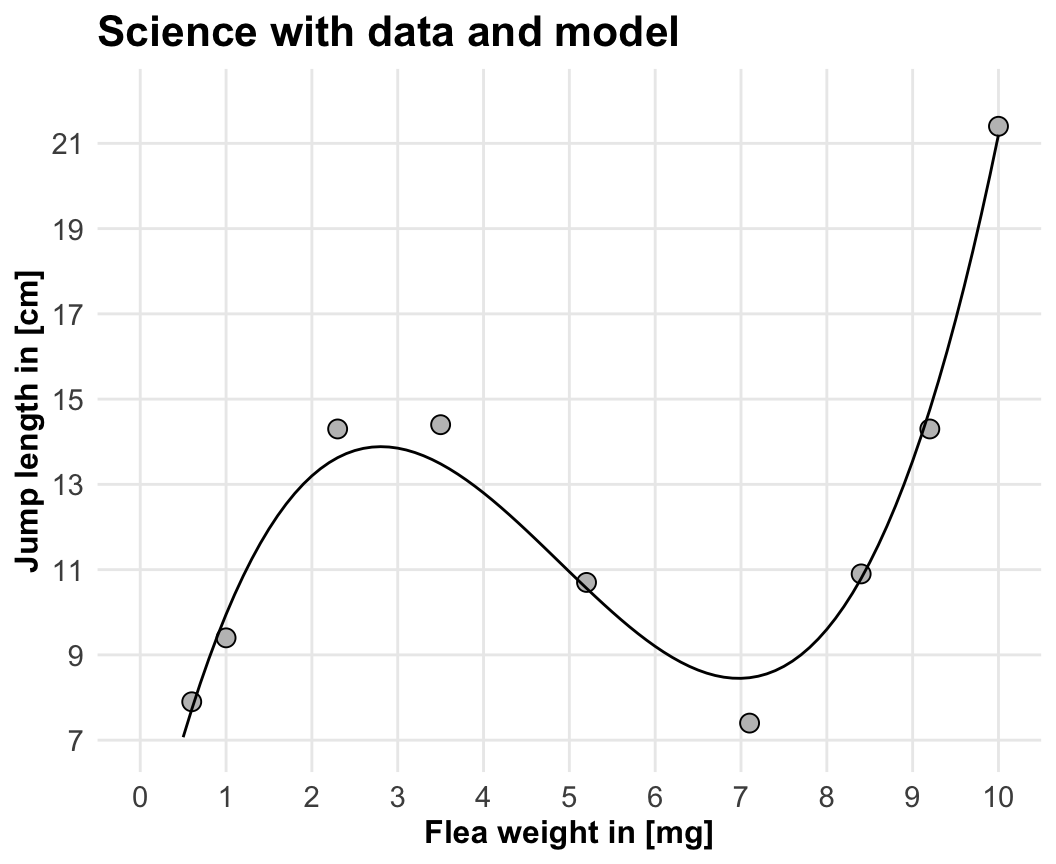
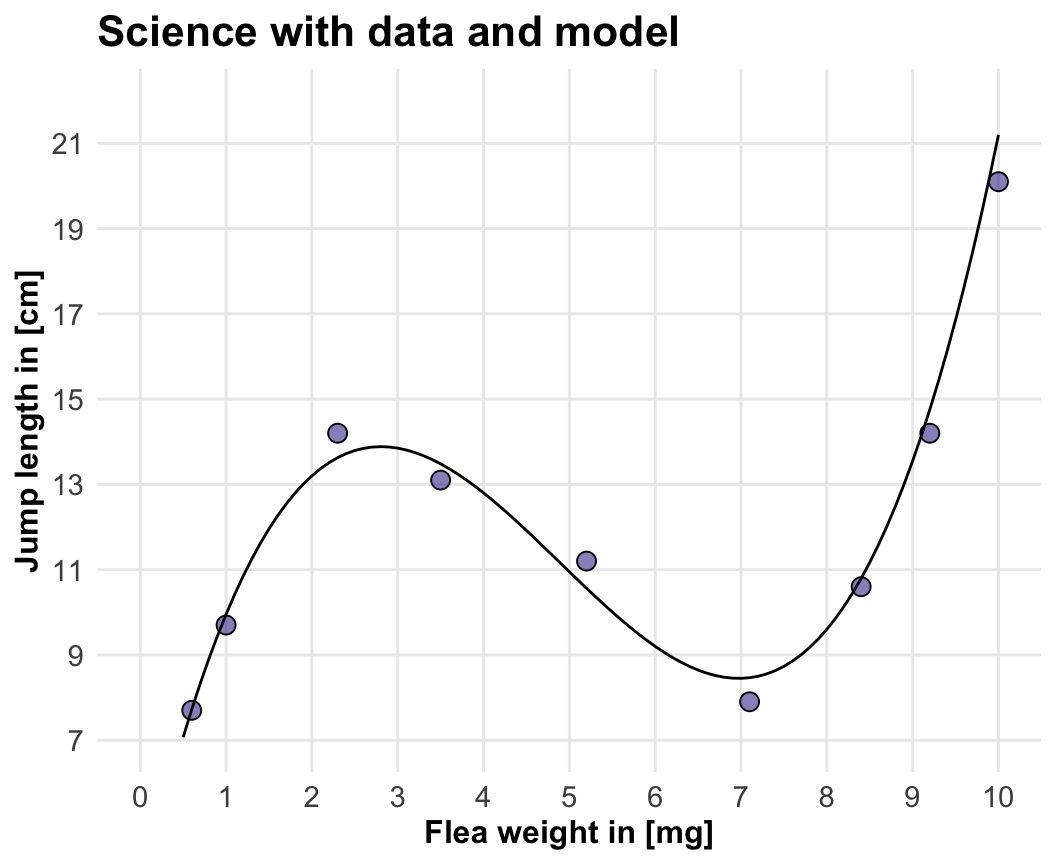
added

diff --git a/docs/chapter-02-what-is-data.html b/docs/chapter-02-what-is-data.html
@@ -238,9 +238,20 @@ window.Quarto = {
  <span class="menu-text"><span class="chapter-number">3</span>&nbsp; <span class="chapter-title">What is a model?</span></span></a>
   </div>
 </li>
+      </ul>
+  </li>
+        <li class="sidebar-item sidebar-item-section">
+      <div class="sidebar-item-container"> 
+            <a href="./chapter-10-preface.html" class="sidebar-item-text sidebar-link">
+ <span class="menu-text">Data</span></a>
+          <a class="sidebar-item-toggle text-start" data-bs-toggle="collapse" data-bs-target="#quarto-sidebar-section-2" role="navigation" aria-expanded="true" aria-label="Toggle section">
+            <i class="bi bi-chevron-right ms-2"></i>
+          </a> 
+      </div>
+      <ul id="quarto-sidebar-section-2" class="collapse list-unstyled sidebar-section depth1 show">  
           <li class="sidebar-item">
   <div class="sidebar-item-container"> 
-  <a href="./chapter-04-example-data.html" class="sidebar-item-text sidebar-link">
+  <a href="./chapter-11-example-data.html" class="sidebar-item-text sidebar-link">
  <span class="menu-text"><span class="chapter-number">4</span>&nbsp; <span class="chapter-title">Data examples</span></span></a>
   </div>
 </li>
@@ -250,11 +261,11 @@ window.Quarto = {
       <div class="sidebar-item-container"> 
             <a href="./template-preface.html" class="sidebar-item-text sidebar-link">
  <span class="menu-text">Template Preface</span></a>
-          <a class="sidebar-item-toggle text-start" data-bs-toggle="collapse" data-bs-target="#quarto-sidebar-section-2" role="navigation" aria-expanded="true" aria-label="Toggle section">
+          <a class="sidebar-item-toggle text-start" data-bs-toggle="collapse" data-bs-target="#quarto-sidebar-section-3" role="navigation" aria-expanded="true" aria-label="Toggle section">
             <i class="bi bi-chevron-right ms-2"></i>
           </a> 
       </div>
-      <ul id="quarto-sidebar-section-2" class="collapse list-unstyled sidebar-section depth1 show">  
+      <ul id="quarto-sidebar-section-3" class="collapse list-unstyled sidebar-section depth1 show">  
           <li class="sidebar-item">
   <div class="sidebar-item-container"> 
   <a href="./template-chapter.html" class="sidebar-item-text sidebar-link">
@@ -307,7 +318,7 @@ window.Quarto = {
 </header>
 
 
-<p><em>Last modified on 17. November 2025 at 20:02:51</em></p>
+<p><em>Last modified on 18. November 2025 at 07:21:12</em></p>
 <blockquote class="blockquote">
 <p><em>“The limits of my language mean the limits of my world.” — Ludwig Wittgenstein</em></p>
 </blockquote>
@@ -349,39 +360,39 @@ Table&nbsp;2.1: foo.
 <tbody>
 <tr class="odd">
 <td style="text-align: center;">0.6</td>
-<td style="text-align: center;">7.9</td>
+<td style="text-align: center;">7.7</td>
 </tr>
 <tr class="even">
 <td style="text-align: center;">1.0</td>
-<td style="text-align: center;">9.4</td>
+<td style="text-align: center;">9.7</td>
 </tr>
 <tr class="odd">
 <td style="text-align: center;">2.3</td>
-<td style="text-align: center;">14.3</td>
+<td style="text-align: center;">14.2</td>
 </tr>
 <tr class="even">
 <td style="text-align: center;">3.5</td>
-<td style="text-align: center;">14.4</td>
+<td style="text-align: center;">13.1</td>
 </tr>
 <tr class="odd">
 <td style="text-align: center;">5.2</td>
-<td style="text-align: center;">10.7</td>
+<td style="text-align: center;">11.2</td>
 </tr>
 <tr class="even">
 <td style="text-align: center;">7.1</td>
-<td style="text-align: center;">7.4</td>
+<td style="text-align: center;">7.9</td>
 </tr>
 <tr class="odd">
 <td style="text-align: center;">8.4</td>
-<td style="text-align: center;">10.9</td>
+<td style="text-align: center;">10.6</td>
 </tr>
 <tr class="even">
 <td style="text-align: center;">9.2</td>
-<td style="text-align: center;">14.3</td>
+<td style="text-align: center;">14.2</td>
 </tr>
 <tr class="odd">
 <td style="text-align: center;">10.0</td>
-<td style="text-align: center;">21.4</td>
+<td style="text-align: center;">20.1</td>
 </tr>
 </tbody>
 </table>
@@ -1052,7 +1063,7 @@ Figure&nbsp;2.2: foo.
 <span id="cb2-102"><a href="#cb2-102" aria-hidden="true" tabindex="-1"></a></span>
 <span id="cb2-103"><a href="#cb2-103" aria-hidden="true" tabindex="-1"></a><span class="fu">ggplot</span>(jump_weight_tbl, <span class="fu">aes</span>(<span class="at">x =</span> weight_mg, <span class="at">y =</span> jump_length_cm)) <span class="sc">+</span></span>
 <span id="cb2-104"><a href="#cb2-104" aria-hidden="true" tabindex="-1"></a>  <span class="fu">theme_book</span>() <span class="sc">+</span></span>
-<span id="cb2-105"><a href="#cb2-105" aria-hidden="true" tabindex="-1"></a>  <span class="fu">geom_point</span>(<span class="at">size =</span> <span class="dv">3</span>, <span class="at">shape =</span> <span class="dv">21</span>, <span class="at">fill =</span> <span class="st">"gray75"</span>) <span class="sc">+</span></span>
+<span id="cb2-105"><a href="#cb2-105" aria-hidden="true" tabindex="-1"></a>  <span class="fu">geom_point</span>(<span class="at">size =</span> <span class="dv">3</span>, <span class="at">shape =</span> <span class="dv">21</span>, <span class="at">fill =</span> <span class="fu">col_pal</span>(<span class="dv">1</span>, <span class="fl">0.5</span>)) <span class="sc">+</span></span>
 <span id="cb2-106"><a href="#cb2-106" aria-hidden="true" tabindex="-1"></a>  <span class="fu">geom_function</span>(<span class="at">fun =</span> \(x) <span class="fl">0.15</span><span class="sc">*</span>x<span class="sc">^</span><span class="dv">3</span> <span class="sc">-</span> <span class="fl">2.2</span><span class="sc">*</span>x<span class="sc">^</span><span class="dv">2</span> <span class="sc">+</span> <span class="fl">8.8</span><span class="sc">*</span>x <span class="sc">+</span> <span class="fl">3.2</span>) <span class="sc">+</span></span>
 <span id="cb2-107"><a href="#cb2-107" aria-hidden="true" tabindex="-1"></a>  <span class="fu">scale_x_continuous</span>(<span class="at">breaks =</span> <span class="dv">0</span><span class="sc">:</span><span class="dv">10</span>, <span class="at">limits =</span> <span class="fu">c</span>(<span class="dv">0</span>, <span class="dv">10</span>)) <span class="sc">+</span></span>
 <span id="cb2-108"><a href="#cb2-108" aria-hidden="true" tabindex="-1"></a>  <span class="fu">scale_y_continuous</span>(<span class="at">breaks =</span> <span class="fu">seq</span>(<span class="dv">7</span>, <span class="dv">21</span>, <span class="dv">2</span>), <span class="at">limits =</span> <span class="fu">c</span>(<span class="dv">7</span>, <span class="dv">22</span>)) <span class="sc">+</span></span>

diff --git a/docs/chapter-11-example-data.html b/docs/chapter-11-example-data.html
@@ -120,7 +120,7 @@ pre > code.sourceCode > span > a:first-child::before { text-decoration: underlin
       <button type="button" class="quarto-btn-toggle btn" data-bs-toggle="collapse" role="button" data-bs-target=".quarto-sidebar-collapse-item" aria-controls="quarto-sidebar" aria-expanded="false" aria-label="Toggle sidebar navigation" onclick="if (window.quartoToggleHeadroom) { window.quartoToggleHeadroom(); }">
         <i class="bi bi-layout-text-sidebar-reverse"></i>
       </button>
-        <nav class="quarto-page-breadcrumbs" aria-label="breadcrumb"><ol class="breadcrumb"><li class="breadcrumb-item"><a href="./chapter-10-preface.html">Template Preface</a></li><li class="breadcrumb-item"><a href="./chapter-11-example-data.html"><span class="chapter-number">4</span>&nbsp; <span class="chapter-title">Data examples</span></a></li></ol></nav>
+        <nav class="quarto-page-breadcrumbs" aria-label="breadcrumb"><ol class="breadcrumb"><li class="breadcrumb-item"><a href="./chapter-10-preface.html">Data</a></li><li class="breadcrumb-item"><a href="./chapter-11-example-data.html"><span class="chapter-number">4</span>&nbsp; <span class="chapter-title">Data examples</span></a></li></ol></nav>
         <a class="flex-grow-1" role="navigation" data-bs-toggle="collapse" data-bs-target=".quarto-sidebar-collapse-item" aria-controls="quarto-sidebar" aria-expanded="false" aria-label="Toggle sidebar navigation" onclick="if (window.quartoToggleHeadroom) { window.quartoToggleHeadroom(); }">      
         </a>
       <button type="button" class="btn quarto-search-button" aria-label="Search" onclick="window.quartoOpenSearch();">
@@ -211,7 +211,7 @@ pre > code.sourceCode > span > a:first-child::before { text-decoration: underlin
         <li class="sidebar-item sidebar-item-section">
       <div class="sidebar-item-container"> 
             <a href="./chapter-10-preface.html" class="sidebar-item-text sidebar-link">
- <span class="menu-text">Template Preface</span></a>
+ <span class="menu-text">Data</span></a>
           <a class="sidebar-item-toggle text-start" data-bs-toggle="collapse" data-bs-target="#quarto-sidebar-section-2" role="navigation" aria-expanded="true" aria-label="Toggle section">
             <i class="bi bi-chevron-right ms-2"></i>
           </a> 
@@ -267,7 +267,7 @@ pre > code.sourceCode > span > a:first-child::before { text-decoration: underlin
 <!-- main -->
 <main class="content" id="quarto-document-content">
 
-<header id="title-block-header" class="quarto-title-block default"><nav class="quarto-page-breadcrumbs quarto-title-breadcrumbs d-none d-lg-block" aria-label="breadcrumb"><ol class="breadcrumb"><li class="breadcrumb-item"><a href="./chapter-10-preface.html">Template Preface</a></li><li class="breadcrumb-item"><a href="./chapter-11-example-data.html"><span class="chapter-number">4</span>&nbsp; <span class="chapter-title">Data examples</span></a></li></ol></nav>
+<header id="title-block-header" class="quarto-title-block default"><nav class="quarto-page-breadcrumbs quarto-title-breadcrumbs d-none d-lg-block" aria-label="breadcrumb"><ol class="breadcrumb"><li class="breadcrumb-item"><a href="./chapter-10-preface.html">Data</a></li><li class="breadcrumb-item"><a href="./chapter-11-example-data.html"><span class="chapter-number">4</span>&nbsp; <span class="chapter-title">Data examples</span></a></li></ol></nav>
 <div class="quarto-title">
 <div class="quarto-title-block"><div><h1 class="title"><span id="sec-data-examples" class="quarto-section-identifier"><span class="chapter-number">4</span>&nbsp; <span class="chapter-title">Data examples</span></span></h1><button type="button" class="btn code-tools-button" id="quarto-code-tools-source"><i class="bi"></i> Code</button></div></div>
 </div>
@@ -829,8 +829,8 @@ pre > code.sourceCode > span > a:first-child::before { text-decoration: underlin
   </script>
 <nav class="page-navigation">
   <div class="nav-page nav-page-previous">
-      <a href="./chapter-10-preface.html" class="pagination-link" aria-label="Template Preface">
-        <i class="bi bi-arrow-left-short"></i> <span class="nav-page-text">Template Preface</span>
+      <a href="./chapter-10-preface.html" class="pagination-link" aria-label="Data">
+        <i class="bi bi-arrow-left-short"></i> <span class="nav-page-text">Data</span>
       </a>          
   </div>
   <div class="nav-page nav-page-next">

diff --git a/docs/chapter-10-preface.html b/docs/chapter-10-preface.html
@@ -8,7 +8,7 @@
 
 <meta name="description" content="A book that takes you from data to science through models! I hope it provides some guidance in your life.">
 
-<title>Template Preface – Models of Reality</title>
+<title>Data – Models of Reality</title>
 <style>
 code{white-space: pre-wrap;}
 span.smallcaps{font-variant: small-caps;}
@@ -120,7 +120,7 @@ pre > code.sourceCode > span > a:first-child::before { text-decoration: underlin
       <button type="button" class="quarto-btn-toggle btn" data-bs-toggle="collapse" role="button" data-bs-target=".quarto-sidebar-collapse-item" aria-controls="quarto-sidebar" aria-expanded="false" aria-label="Toggle sidebar navigation" onclick="if (window.quartoToggleHeadroom) { window.quartoToggleHeadroom(); }">
         <i class="bi bi-layout-text-sidebar-reverse"></i>
       </button>
-        <nav class="quarto-page-breadcrumbs" aria-label="breadcrumb"><ol class="breadcrumb"><li class="breadcrumb-item"><a href="./chapter-10-preface.html">Template Preface</a></li></ol></nav>
+        <nav class="quarto-page-breadcrumbs" aria-label="breadcrumb"><ol class="breadcrumb"><li class="breadcrumb-item"><a href="./chapter-10-preface.html">Data</a></li></ol></nav>
         <a class="flex-grow-1" role="navigation" data-bs-toggle="collapse" data-bs-target=".quarto-sidebar-collapse-item" aria-controls="quarto-sidebar" aria-expanded="false" aria-label="Toggle sidebar navigation" onclick="if (window.quartoToggleHeadroom) { window.quartoToggleHeadroom(); }">      
         </a>
       <button type="button" class="btn quarto-search-button" aria-label="Search" onclick="window.quartoOpenSearch();">
@@ -211,7 +211,7 @@ pre > code.sourceCode > span > a:first-child::before { text-decoration: underlin
         <li class="sidebar-item sidebar-item-section">
       <div class="sidebar-item-container"> 
             <a href="./chapter-10-preface.html" class="sidebar-item-text sidebar-link active">
- <span class="menu-text">Template Preface</span></a>
+ <span class="menu-text">Data</span></a>
           <a class="sidebar-item-toggle text-start" data-bs-toggle="collapse" data-bs-target="#quarto-sidebar-section-2" role="navigation" aria-expanded="true" aria-label="Toggle section">
             <i class="bi bi-chevron-right ms-2"></i>
           </a> 
@@ -255,7 +255,7 @@ pre > code.sourceCode > span > a:first-child::before { text-decoration: underlin
 
 <header id="title-block-header" class="quarto-title-block default">
 <div class="quarto-title">
-<div class="quarto-title-block"><div><h1 class="title"><span id="sec-geometry" class="quarto-section-identifier">Template Preface</span></h1><button type="button" class="btn code-tools-button" id="quarto-code-tools-source"><i class="bi"></i> Code</button></div></div>
+<div class="quarto-title-block"><div><h1 class="title"><span id="sec-geometry" class="quarto-section-identifier">Data</span></h1><button type="button" class="btn code-tools-button" id="quarto-code-tools-source"><i class="bi"></i> Code</button></div></div>
 </div>
 
 
@@ -789,7 +789,7 @@ pre > code.sourceCode > span > a:first-child::before { text-decoration: underlin
 <span id="cb1-2"><a href="#cb1-2" aria-hidden="true" tabindex="-1"></a>pacman<span class="sc">::</span><span class="fu">p_load</span>(tidyverse)</span>
 <span id="cb1-3"><a href="#cb1-3" aria-hidden="true" tabindex="-1"></a><span class="in">```</span></span>
 <span id="cb1-4"><a href="#cb1-4" aria-hidden="true" tabindex="-1"></a></span>
-<span id="cb1-5"><a href="#cb1-5" aria-hidden="true" tabindex="-1"></a><span class="fu"># Template Preface {#sec-geometry}</span></span>
+<span id="cb1-5"><a href="#cb1-5" aria-hidden="true" tabindex="-1"></a><span class="fu"># Data {#sec-geometry}</span></span>
 <span id="cb1-6"><a href="#cb1-6" aria-hidden="true" tabindex="-1"></a></span>
 <span id="cb1-7"><a href="#cb1-7" aria-hidden="true" tabindex="-1"></a>*Last modified on `r format(fs::file_info("template-preface.qmd")$modification_time, '%d. %B %Y at %H:%M:%S')`*</span>
 <span id="cb1-8"><a href="#cb1-8" aria-hidden="true" tabindex="-1"></a></span>
